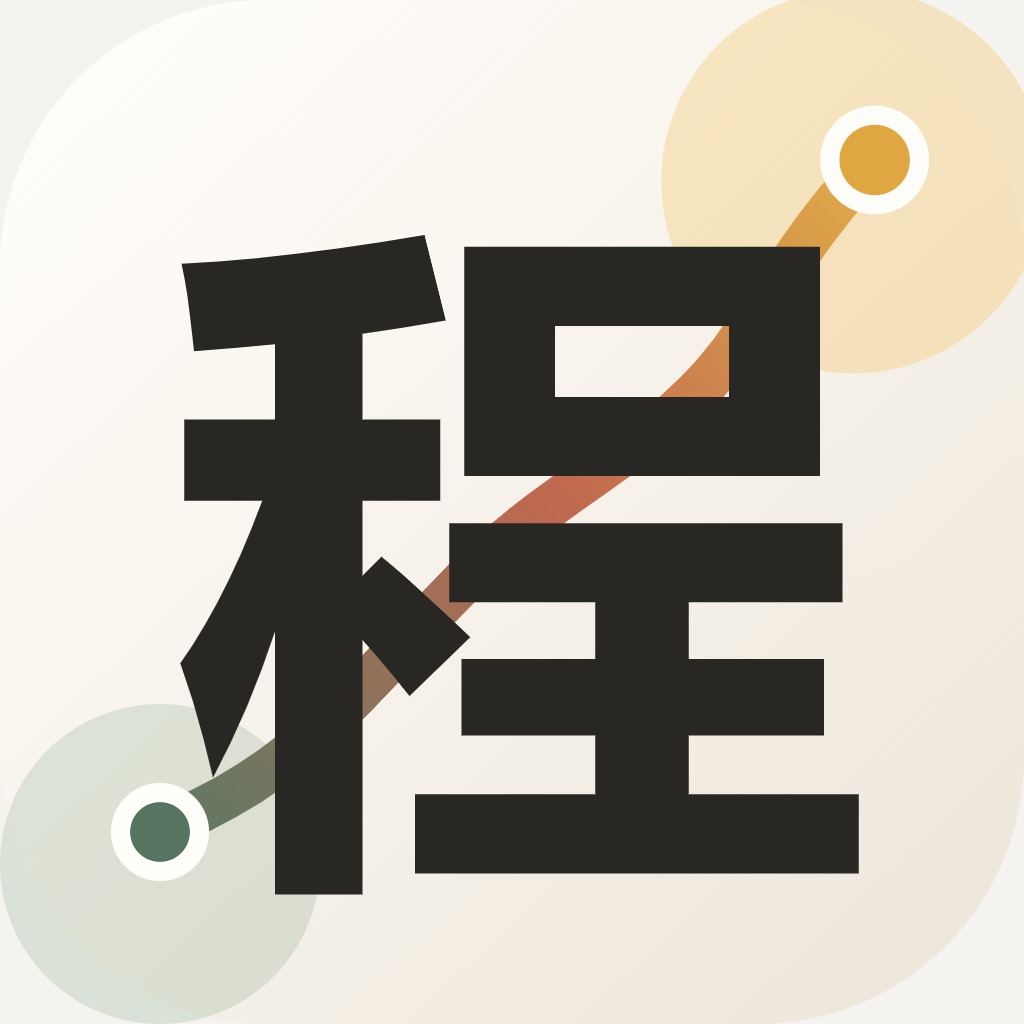
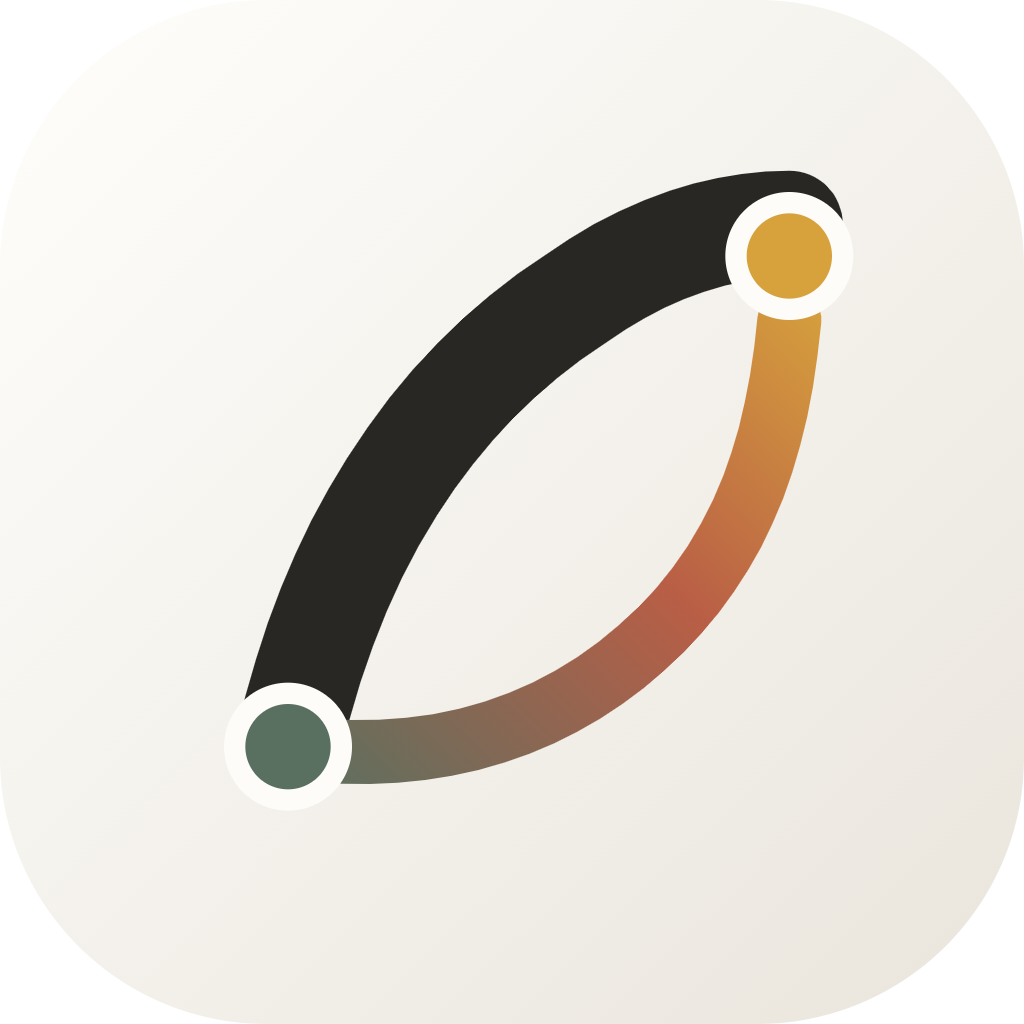
feat: refine conversation interface and visual identity

diff --git a/apps/web/iphone-refinement.css b/apps/web/iphone-refinement.css
@@ -31,3 +31,23 @@ button:focus-visible,a:focus-visible,select:focus-visible,input:focus-visible,te
 .onboarding-visual .onboarding-mark{width:39px;height:39px;margin:0;border:0;border-radius:12px;background:transparent}.onboarding-visual figcaption{position:absolute;z-index:2;right:18px;bottom:16px;left:18px;color:#fffaf5;font-family:"Songti SC","STSong",serif;font-size:16px;line-height:1.45}
 :root[data-theme="night"] .phone{background:linear-gradient(170deg,var(--canvas-soft),var(--canvas))}:root[data-theme="night"] .plan-actions #start-action,:root[data-theme="night"] .bottom-nav button.active{background:color-mix(in srgb,var(--surface-strong) 62%,var(--ink));color:var(--ink)}
 @media(max-height:760px){.onboarding-visual{height:150px}.onboarding h1{font-size:31px}.onboarding p{margin-bottom:18px}}
+
+/* 2026-09 conversation-first refinement: one quiet canvas, floating controls, content-led imagery. */
+.phone{background:var(--canvas-soft)}
+.companion-header{height:68px;padding:8px 18px;border-bottom:0;background:color-mix(in srgb,var(--canvas-soft) 90%,transparent)}
+.companion-mark{width:38px;height:38px;border:0;border-radius:13px;box-shadow:0 5px 16px color-mix(in srgb,var(--ink) 8%,transparent)}
+.conversation-model{min-height:32px;padding:0 11px;border:0;background:var(--surface);box-shadow:inset 0 0 0 1px var(--line);color:var(--ink)}
+.conversation{padding:18px 18px 188px}.empty-conversation{margin:auto 16px;padding:18px 8px}.empty-conversation:before{width:26px;height:3px;border-radius:99px}.empty-conversation b{font-size:25px}.empty-conversation p{font-size:13px}
+.plan-proposal{margin:8px 0 24px;padding:12px;border:0;border-radius:26px;background:var(--surface);box-shadow:0 10px 30px color-mix(in srgb,var(--ink) 8%,transparent)}
+.plan-proposal>header,.plan-proposal>.platform-line,.plan-proposal>h2,.plan-proposal>.task-detail-list,.plan-proposal>.plan-actions{margin-right:6px;margin-left:6px}.plan-proposal>header{padding-top:5px}
+.proposal-media{height:164px;margin:12px 0 16px;overflow:hidden;border-radius:19px;background:var(--surface-strong)}.proposal-media[hidden]{display:none}.proposal-media img{display:block;width:100%;height:100%;object-fit:cover}
+.platform-line{margin-top:13px}.plan-proposal h2{font-family:inherit;font-size:18px;line-height:1.38}.task-detail-list div{grid-template-columns:72px 1fr;padding:9px 0}.plan-actions{margin-bottom:5px}.plan-actions #start-action{background:var(--ink);color:var(--surface)}
+.composer{right:14px;bottom:82px;left:14px;grid-template-columns:40px minmax(0,1fr) 40px;padding:6px;border:0;border-radius:23px;background:color-mix(in srgb,var(--surface) 94%,transparent);box-shadow:0 10px 30px color-mix(in srgb,var(--ink) 12%,transparent),inset 0 0 0 1px color-mix(in srgb,var(--ink) 7%,transparent);backdrop-filter:blur(24px) saturate(1.12)}
+.composer:focus-within{border-color:transparent;box-shadow:0 12px 34px color-mix(in srgb,var(--ink) 14%,transparent),inset 0 0 0 1px color-mix(in srgb,var(--ink) 14%,transparent)}
+.composer textarea{min-height:40px;max-height:116px;padding:9px 8px;border:0;background:transparent;line-height:1.4;resize:none;scrollbar-width:none}.composer textarea:focus-visible{outline:0}.composer textarea::-webkit-scrollbar{display:none}
+.attachment-button,.send-button{width:40px;height:40px;border-radius:14px}.attachment-button{background:transparent;color:var(--muted)}.attachment-button:active{background:var(--surface-strong)}.send-button{background:var(--ink);color:var(--surface)}.send-button:not(.ready){background:var(--surface-strong);color:var(--faint)}
+.bottom-nav{right:16px;bottom:max(9px,env(safe-area-inset-bottom));left:16px;height:62px;padding:7px 14px;border:0;border-radius:28px;background:color-mix(in srgb,var(--surface) 94%,transparent);box-shadow:0 9px 28px color-mix(in srgb,var(--ink) 11%,transparent),inset 0 0 0 1px color-mix(in srgb,var(--ink) 7%,transparent);backdrop-filter:blur(24px) saturate(1.1)}
+.bottom-nav button{min-width:44px;min-height:48px;justify-self:center;border-radius:16px}.bottom-nav button span{position:absolute;width:1px;height:1px;padding:0;margin:-1px;overflow:hidden;border:0;clip:rect(0,0,0,0);clip-path:inset(50%);white-space:nowrap}.bottom-nav button.active{width:48px;background:var(--ink);color:var(--surface)}.bottom-nav svg{width:21px;height:21px}.bottom-nav button.active svg{transform:none}
+.today-screen,.path-screen,.us-screen,.settings-screen{padding-right:18px;padding-left:18px}.empty-state,.energy-check,.settings-entry,.settings-section,.current-direction{border:0;background:var(--surface);box-shadow:0 7px 22px color-mix(in srgb,var(--ink) 6%,transparent)}
+:root[data-theme="night"] .phone{background:var(--canvas-soft)}:root[data-theme="night"] .bottom-nav button.active,:root[data-theme="night"] .plan-actions #start-action{background:var(--ink);color:var(--surface)}
+@media(max-width:600px){.composer{bottom:calc(82px + env(safe-area-inset-bottom))}}

diff --git a/apps/web/test/iphone-ui.test.js b/apps/web/test/iphone-ui.test.js
@@ -15,7 +15,8 @@ const [html, css, refinementCss, js, markSvg, webIcon, iosIcon, manifest] = awai
 
 test("web and iOS ship one font-independent 学程 brand mark", () => {
   assert.doesNotMatch(markSvg, /<text\b|font-family=/i);
-  assert.match(markSvg, /data-mark="cheng"/);
+  assert.match(markSvg, /data-mark="path-companion"/);
+  assert.doesNotMatch(markSvg, /data-mark="cheng"/);
   assert.deepEqual(webIcon, iosIcon);
   assert.match(manifest, /"sizes": "1024x1024"/);
   assert.match(manifest, /"background_color": "#ebe9e6"/);
@@ -102,6 +103,8 @@ test("text entry avoids iOS focus zoom and tracks the visual keyboard viewport",
   assert.match(html, /interactive-widget=resizes-content/);
   assert.doesNotMatch(html, /maximum-scale=1/);
   assert.doesNotMatch(html, /user-scalable=no/);
+  assert.match(refinementCss, /\.composer textarea:focus-visible\{outline:0\}/);
+  assert.match(refinementCss, /\.composer textarea::-webkit-scrollbar\{display:none\}/);
 });
 
 test("the active iPhone interface uses SVG marks instead of emoji or status glyphs", () => {
@@ -114,6 +117,13 @@ test("bottom navigation is a floating rounded control layer over a quiet canvas"
   assert.match(refinementCss, /\.bottom-nav\s*\{[^}]*right:\s*12px[^}]*left:\s*12px[^}]*border-radius:\s*24px/s);
   assert.match(refinementCss, /\.phone::after,[\s\S]*\.plan-proposal::after\s*\{\s*display:\s*none/);
   assert.match(refinementCss, /\.chat-screen\s*\{\s*background:\s*transparent/);
+  assert.match(refinementCss, /\.bottom-nav button span\{[^}]*clip-path:inset\(50%\)/s);
+});
+
+test("real resources can appear as restrained image-led proposal cards", () => {
+  assert.match(html, /id="proposal-media"/);
+  assert.match(js, /action\.resource\?\.image/);
+  assert.match(refinementCss, /\.proposal-media\{/);
 });
 
 test("warm themes stay muted and the main proposal presents one primary decision", () => {

diff --git a/apps/web/sw.js b/apps/web/sw.js
@@ -1,5 +1,5 @@
-const CACHE = "xuecheng-iphone-v12";
-const SHELL = ["./", "./iphone.css", "./iphone-refinement.css", "./iphone.js", "./local-backup.js", "./manifest.webmanifest", "./assets/xuecheng-mark.svg", "./assets/xuecheng-mark.png", "./assets/onboarding-path.webp", "./lib/conversation-history.js", "./agent/index.js", "./agent/state.js", "./agent/observer.js", "./agent/memory.js", "./agent/user-model.js", "./agent/planner.js", "./agent/tutor.js", "./agent/evaluator.js", "./agent/scheduler.js", "./agent/model-gateway.js", "./agent/model-providers.js", "./agent/obsidian.js", "./agent/resource-catalog.js"];
+const CACHE = "xuecheng-iphone-v13";
+const SHELL = ["./", "./iphone.css", "./iphone-refinement.css", "./iphone.js", "./local-backup.js", "./manifest.webmanifest", "./assets/xuecheng-mark.svg", "./assets/xuecheng-mark.png", "./assets/onboarding-path.webp", "./assets/resource-agriculture.webp", "./lib/conversation-history.js", "./agent/index.js", "./agent/state.js", "./agent/observer.js", "./agent/memory.js", "./agent/user-model.js", "./agent/planner.js", "./agent/tutor.js", "./agent/evaluator.js", "./agent/scheduler.js", "./agent/model-gateway.js", "./agent/model-providers.js", "./agent/obsidian.js", "./agent/resource-catalog.js"];
 self.addEventListener("install", event => event.waitUntil(caches.open(CACHE).then(cache => cache.addAll(SHELL))));
 self.addEventListener("activate", event => event.waitUntil(caches.keys().then(keys => Promise.all(keys.filter(key => key !== CACHE).map(key => caches.delete(key))))));
 self.addEventListener("fetch", event => {

diff --git a/apps/web/agent/planner.js b/apps/web/agent/planner.js
@@ -6,7 +6,7 @@ const ACTIONS = [
     title: "看《世界历史速成课 #1：农业革命》前 11 分钟",
     duration_minutes: 20,
     platform: "哔哩哔哩",
-    resource: { title: "世界历史速成课 #1：农业革命", url: "https://www.bilibili.com/video/BV1fSr7YoEJ7/" },
+    resource: { title: "世界历史速成课 #1：农业革命", url: "https://www.bilibili.com/video/BV1fSr7YoEJ7/", image: "./assets/resource-agriculture.webp" },
     instructions: "不倍速观看；只观察技术变化后，谁获得了什么、又付出了什么。",
     completion_criteria: "不用复述定义，用自己的话说出一个收益、一个代价，以及它怎样改变了社会关系。",
     why_now: "你未来想做产品。如果只懂 AI，很容易把所有问题都理解成技术问题。农业革命是人类第一次大规模改变生产关系的案例，它能帮助你观察技术如何改变社会结构。今天不是为了背历史，而是为产品判断建立一个更宽的坐标。",

diff --git a/apps/web/iphone.js b/apps/web/iphone.js
@@ -166,6 +166,11 @@ function render() {
   const action = agentState.next_recommended_action;
   $("#agent-proposal").hidden = !action;
   $("#agent-proposal").classList.toggle("external", Boolean(action?.resource?.url));
+  const proposalMedia = $("#proposal-media");
+  const proposalImage = action && action.resource?.image;
+  proposalMedia.hidden = !proposalImage;
+  $("#proposal-image").src = proposalImage || "";
+  $("#proposal-image").alt = proposalImage ? `${action.resource.title} 的内容预览` : "";
   if (action) {
     $("#proposal-time").textContent = `${action.duration_minutes} 分钟`;
     $("#proposal-platform").textContent = `${action.platform} · ${agentState.skills[action.skill_id]?.label || "当前方向"}`;

diff --git a/apps/web/iphone.html b/apps/web/iphone.html
@@ -70,6 +70,7 @@
             <span class="platform-mark" aria-hidden="true"><svg viewBox="0 0 24 24"><path d="m8 4 4 4 4-4M5 8.5h14a2 2 0 0 1 2 2v7.5a2 2 0 0 1-2 2H5a2 2 0 0 1-2-2v-7.5a2 2 0 0 1 2-2Z"/><path d="M9 13v2m6-2v2"/></svg></span>
             <span id="proposal-platform"></span>
           </div>
+          <figure class="proposal-media" id="proposal-media" hidden><img id="proposal-image" alt=""></figure>
           <h2 id="proposal-title"></h2>
           <dl class="task-detail-list">
             <div class="proposal-why"><dt>为什么是现在</dt><dd id="proposal-why"></dd></div>

diff --git a/apps/web/test/service-worker.test.js b/apps/web/test/service-worker.test.js
@@ -11,5 +11,6 @@ test("offline cache never intercepts model-provider or other cross-origin reques
 test("offline cache includes the conversation history module", () => {
   assert.match(source, /\.\/lib\/conversation-history\.js/);
   assert.match(source, /\.\/assets\/onboarding-path\.webp/);
-  assert.match(source, /xuecheng-iphone-v12/);
+  assert.match(source, /\.\/assets\/resource-agriculture\.webp/);
+  assert.match(source, /xuecheng-iphone-v13/);
 });
